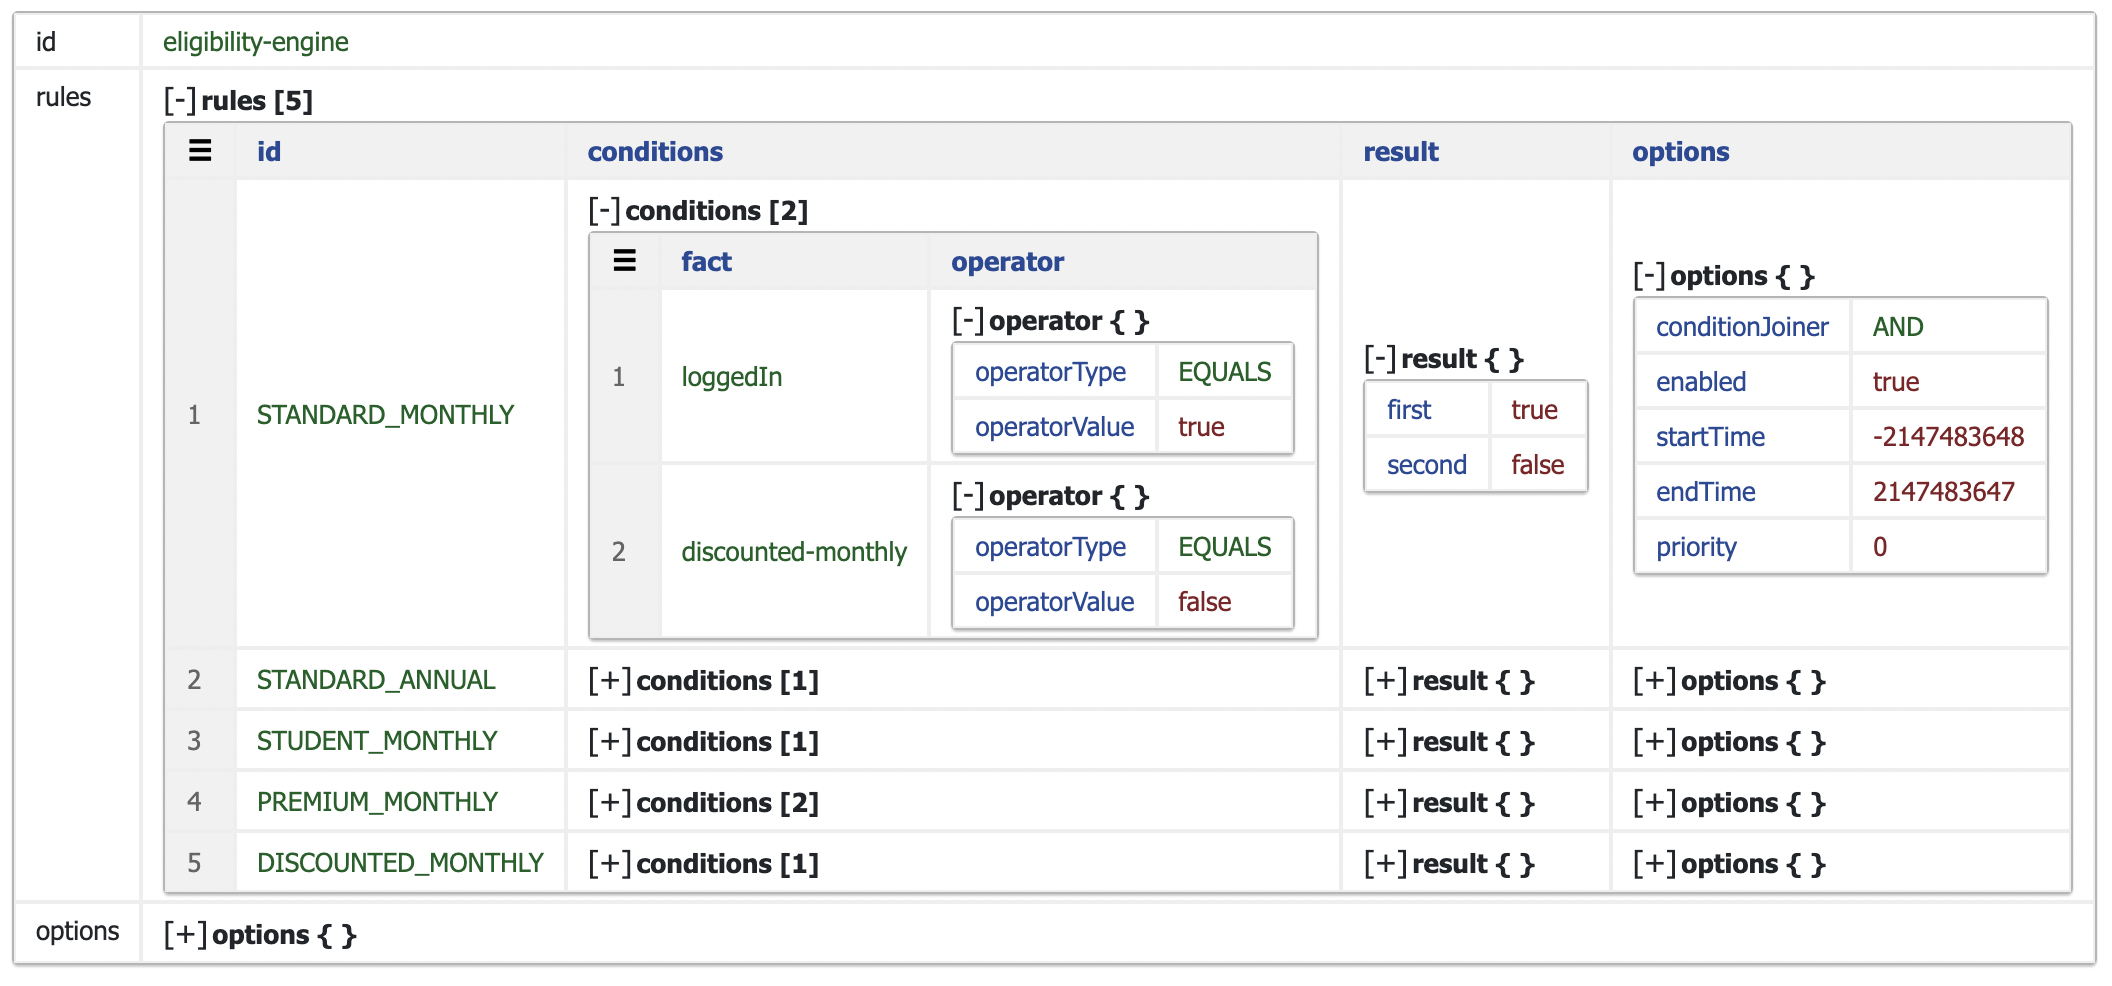
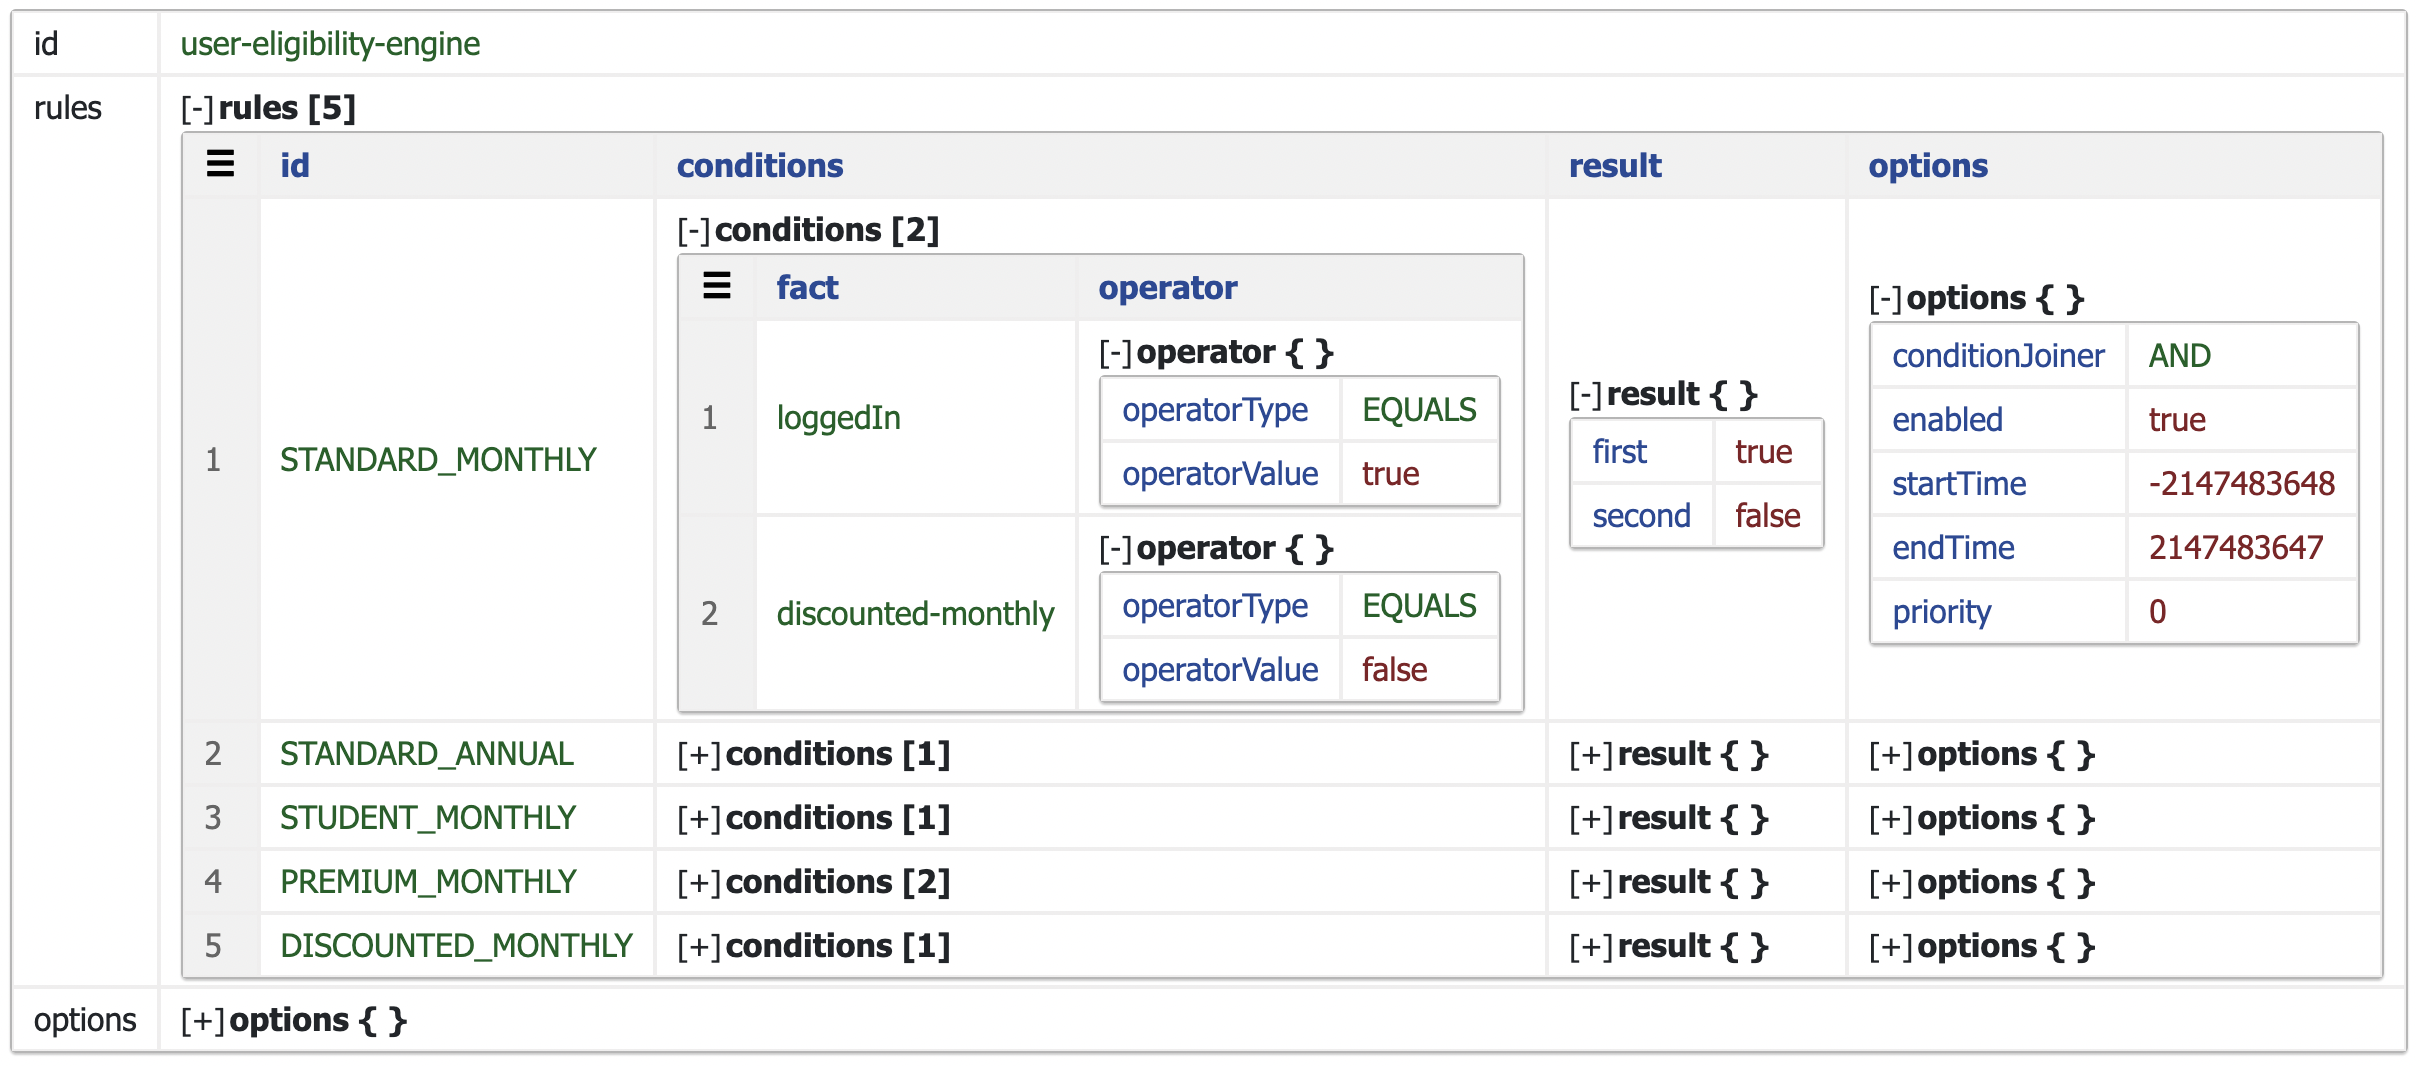
chore: small slide and code updates (#4)

diff --git a/code/app/src/main/kotlin/com/user/subscription/service/handler/SubscriptionEligibility.kt b/code/app/src/main/kotlin/com/user/subscription/service/handler/SubscriptionEligibility.kt
@@ -13,11 +13,10 @@ import java.time.Instant
 
 private val logger = KotlinLogging.logger("SubscriptionEligibility")
 
-private const val PREMIUM_PLAN_ROLLOUT_TIME = 1667610000
-
 class SubscriptionEligibility {
     companion object {
         val v1 = Handler<RoutingContext> { req ->
+            logger.info { "incoming request to v1 API" }
             val userRequestBody = parseBody(req)
 
             if (userRequestBody == null) {
@@ -37,11 +36,14 @@ class SubscriptionEligibility {
                 plans.add(SubscriptionPlan.STUDENT_MONTHLY)
             }
 
-            if (userRequestBody.subscribedForMonths > 12 && Instant.now().epochSecond > PREMIUM_PLAN_ROLLOUT_TIME) {
+            if (
+                userRequestBody.subscribedForMonths > UserEligibilityConstants.PREMIUM_PLAN_MINIMUM_MONTHS &&
+                Instant.now().epochSecond > UserEligibilityConstants.PREMIUM_PLAN_ROLLOUT_TIME
+            ) {
                 plans.add(SubscriptionPlan.PREMIUM_MONTHLY)
             }
 
-            if (hashSetOf("promo.code.1").contains(userRequestBody.promotionCode)) {
+            if (UserEligibilityConstants.ELIGIBLE_PROMO_CODES.contains(userRequestBody.promotionCode)) {
                 plans.add(SubscriptionPlan.DISCOUNTED_MONTHLY)
                 plans.remove(SubscriptionPlan.STANDARD_MONTHLY)
             }
@@ -51,6 +53,7 @@ class SubscriptionEligibility {
         }
 
         val v2 = Handler<RoutingContext> { req ->
+            logger.info { "incoming request to v2 API" }
             val userRequestBody = parseBody(req)
 
             if (userRequestBody == null) {
@@ -59,44 +62,16 @@ class SubscriptionEligibility {
                 return@Handler
             }
 
-            val engine = Engine(
-                "eligibility-engine", arrayListOf(
-                    Rule(
-                        SubscriptionPlan.STANDARD_MONTHLY.name,
-                        arrayListOf(
-                            Condition("loggedIn", Operator(OperatorType.EQUALS, true)),
-                            Condition("discounted-monthly", Operator(OperatorType.EQUALS, false))
-                        ),
-                    ), Rule(
-                        SubscriptionPlan.STANDARD_ANNUAL.name,
-                        arrayListOf(
-                            Condition("loggedIn", Operator(OperatorType.EQUALS, true))
-                        ),
-                    ), Rule(
-                        SubscriptionPlan.STUDENT_MONTHLY.name,
-                        arrayListOf(
-                            Condition("email", Operator(OperatorType.ENDS_WITH, ".edu"))
-                        ),
-                    ), Rule(
-                        SubscriptionPlan.PREMIUM_MONTHLY.name,
-                        arrayListOf(
-                            Condition("subscribedForMonths", Operator(OperatorType.GREATER_THAN, 12)),
-                            Condition("currentTime", Operator(OperatorType.GREATER_THAN, PREMIUM_PLAN_ROLLOUT_TIME))
-                        ),
-                    ), Rule(
-                        SubscriptionPlan.DISCOUNTED_MONTHLY.name,
-                        arrayListOf(
-                            Condition("promotionCode", Operator(OperatorType.CONTAINED_IN, hashSetOf("promo.code.1")))
-                        ),
-                    )
-                ), EngineOptions(
-                    sortRulesByPriority = true, storeRuleEvaluationResults = true
-                )
-            )
-
             logger.info { "user_data - $userRequestBody" }
-            val plans = engine.evaluate(userRequestBody.toHashMap()).getPlansList()
 
+            val engine = UserEligibilityEngine.getEngine()
+            val facts = userRequestBody.toHashMap()
+            facts["currentTime"] = Instant.now().epochSecond
+
+            val evaluationResult = engine.evaluate(facts)
+            logger.info { "evaluationResult - $evaluationResult" }
+
+            val plans = evaluationResult.getPlansList()
             logger.info { "plans - $plans" }
             req.response().endWithJson(plans)
         }

diff --git a/code/app/src/main/kotlin/com/user/subscription/service/handler/UserEligibilityEngine.kt b/code/app/src/main/kotlin/com/user/subscription/service/handler/UserEligibilityEngine.kt
@@ -1,0 +1,53 @@
+package com.user.subscription.service.handler
+
+import com.user.subscription.service.model.SubscriptionPlan
+import com.warnermedia.rulesengine.*
+
+
+object UserEligibilityEngine {
+    fun getEngine(): Engine {
+        return Engine(
+            "user-eligibility-engine", arrayListOf(
+                Rule(
+                    SubscriptionPlan.STANDARD_MONTHLY.name,
+                    arrayListOf(
+                        Condition("loggedIn", Operator(OperatorType.EQUALS, true)),
+                        Condition("DISCOUNTED_MONTHLY", Operator(OperatorType.EQUALS, false))
+                    ),
+                ), Rule(
+                    SubscriptionPlan.STANDARD_ANNUAL.name,
+                    arrayListOf(
+                        Condition("loggedIn", Operator(OperatorType.EQUALS, true))
+                    ),
+                ), Rule(
+                    SubscriptionPlan.STUDENT_MONTHLY.name,
+                    arrayListOf(
+                        Condition("email", Operator(OperatorType.ENDS_WITH, ".edu"))
+                    ),
+                ), Rule(
+                    SubscriptionPlan.PREMIUM_MONTHLY.name,
+                    arrayListOf(
+                        Condition(
+                            "subscribedForMonths",
+                            Operator(OperatorType.GREATER_THAN, UserEligibilityConstants.PREMIUM_PLAN_MINIMUM_MONTHS)
+                        ), Condition(
+                            "currentTime",
+                            Operator(OperatorType.GREATER_THAN, UserEligibilityConstants.PREMIUM_PLAN_ROLLOUT_TIME)
+                        )
+                    ),
+                ), Rule(
+                    SubscriptionPlan.DISCOUNTED_MONTHLY.name, arrayListOf(
+                        Condition(
+                            "promotionCode",
+                            Operator(OperatorType.CONTAINED_IN, UserEligibilityConstants.ELIGIBLE_PROMO_CODES)
+                        )
+                    ), options = RuleOptions(priority = 1)
+                )
+            ), EngineOptions(
+                sortRulesByPriority = true,
+                storeRuleEvaluationResults = true,
+                undefinedFactEvaluationType = UndefinedFactEvaluation.EVALUATE_TO_FALSE
+            )
+        )
+    }
+}

diff --git a/code/app/src/main/kotlin/com/user/subscription/service/model/UserSubscriptionRequest.kt b/code/app/src/main/kotlin/com/user/subscription/service/model/UserSubscriptionRequest.kt
@@ -5,8 +5,6 @@ import kotlin.reflect.full.memberProperties
 
 data class UserSubscriptionRequest(
     @JsonProperty("email") val email: String,
-    @JsonProperty("state") val state: String,
-    @JsonProperty("country") val country: String,
     @JsonProperty("subscribed_for_months") val subscribedForMonths: Int,
     @JsonProperty("logged_in") val loggedIn: Boolean,
     @JsonProperty("promotion_code") val promotionCode: String?

diff --git a/code/app/src/main/kotlin/com/user/subscription/service/handler/UserEligibilityConstants.kt b/code/app/src/main/kotlin/com/user/subscription/service/handler/UserEligibilityConstants.kt
@@ -1,0 +1,10 @@
+package com.user.subscription.service.handler
+
+object UserEligibilityConstants {
+    val ELIGIBLE_PROMO_CODES = hashSetOf("promo.code.1", "promo.code.2")
+
+    const val PREMIUM_PLAN_MINIMUM_MONTHS = 12
+
+    // GMT: Tuesday, November 1, 2022 3:05:05 PM
+    const val PREMIUM_PLAN_ROLLOUT_TIME = 1667315105L
+}

diff --git a/slides/slides.md b/slides/slides.md
@@ -1,7 +1,29 @@
 ---
+layout: two-cols
+---
+
+#
+
+<br />
+<br />
+<br />
+<br />
+<br />
+<br />
+<br />
+<br />
+<br />
+<br />
+
+[bit.ly/wbd-ato22](https://bit.ly/wbd-ato22)
+
+::right::
+
+<img src="/images/bitly.png" width="500" style="padding: 5rem 2rem 0 5rem;"/>
+
+---
 layout: cover
 background: "/images/fotografiska.jpeg"
-download: true
 ---
 
 # The Power of a Rules Engine
@@ -22,9 +44,9 @@ layout: two-cols
 - Working on anything/everything commerce
 - Creator and maintainer of
   - [WireMock-Captain](https://github.com/HBOCodeLabs/wiremock-captain)
-  - [@warnermedia/Rules-Engine](https://github.com/WarnerMedia/Rules-Engine)
+  - [@WarnerMedia/Rules-Engine](https://github.com/WarnerMedia/Rules-Engine)
 - Likes
-  - reading
+  - watches
   - cooking
   - discovering international music and series
 - GitHub: [satvik-s](https://github.com/satvik-s)
@@ -86,11 +108,11 @@ layout: two-cols
 
 # Use cases
 
-```kotlin{1|2-5|22|7-9|10|14|15-18|19-21|10-15|all}
+```kotlin{1|2|22|7-9|3|10|14|4|15-18|5|19-21|10-15|all}
 fun getUserPlanType(
     isLoggedIn: Boolean,
     isStudent: Boolean,
-    isEligibleForPromotion: Boolean,
+    isEligibleForPremiumPlan: Boolean,
     isEligibleForNewYearsPromotion: Boolean
 ): Array<String> {
     if (isLoggedIn) {
@@ -102,8 +124,8 @@ fun getUserPlanType(
         }
         return arrayOf("monthly_plan", "annual_plan", "student_plan")
     }
-    if (isLoggedIn && isEligibleForPromotion) {
-        return arrayOf("monthly_plan", "annual_plan", "promotional_plan")
+    if (isLoggedIn && isEligibleForPremiumPlan) {
+        return arrayOf("monthly_plan", "annual_plan", "premium_plan")
     }
     if (isLoggedIn && isEligibleForNewYearsPromotion) {
         return arrayOf("monthly_plan", "annual_plan", "new_years_promotional_plan")
@@ -142,7 +164,7 @@ user_logged_in == true && user_is_student == true
 
 <v-click>
 
-Engine - A collection of rules leading to an overall result. e.g.
+Engine - A collection of rules leading to an overall evaluation result. e.g.
 
 ```kotlin
 user_logged_in == true && user_is_student == true
@@ -182,6 +204,8 @@ GitHub (Code + Slides)
 
 Fixed hierarchy
 
+<v-click>
+
 What it supports:
 
 ```mermaid
@@ -194,6 +218,8 @@ flowchart TD
     R2 --> C4[user_has_no_existing_plan]
     R2 --> C5[year_is_2022]
 ```
+
+</v-click>
 
 <img src="/images/wbd.png" width="100" style="position: absolute; right: 0px; bottom: 0px;"/>
 
@@ -231,11 +257,13 @@ flowchart TD
 
 JSON persistence
 
+<v-click>
+
 An engine instance in code:
 
-```kotlin
+```kotlin{3-12|all}
 val engine = Engine(
-    "eligibility-engine",
+    "user-eligibility-engine",
     arrayListOf(
         Rule(
             SubscriptionPlan.STANDARD_MONTHLY.name,
@@ -253,6 +281,8 @@ val engine = Engine(
 )
 ```
 
+</v-click>
+
 <img src="/images/wbd.png" width="100" style="position: absolute; right: 0px; bottom: 0px;"/>
 
 ---
@@ -263,9 +293,9 @@ JSON persistence
 
 The engine instance as JSON:
 
-```json
+```json{3-13|all}
 {
-  "id": "eligibility-engine",
+  "id": "user-eligibility-engine",
   "rules": [
     {
       "id": "STANDARD_MONTHLY",
@@ -317,7 +347,7 @@ Leveraging remote rules engine instances
 
 Leveraging remote rules engine instances
 
-```kotlin{17-20|all}
+```kotlin{17-20|8-15|all}
 class CachedEngineInstance(val bucketName: String, val keyName: String, val timeToLive: Int) {
     private val objectMapper = ObjectMapper()
     private val request = GetObjectRequest { key = keyName; bucket = bucketName }
@@ -349,12 +379,12 @@ class CachedEngineInstance(val bucketName: String, val keyName: String, val time
 
 Leveraging remote rules engine instances
 
-```kotlin
+```kotlin{7-8|all}
 suspend fun evaluateFacts(facts: HashMap<String, Any?>): EvaluationResult {
     val cachedEngineInstance = CachedEngineInstance(
-        "rules-engine-bucket",
-        "engine.json",
-        60 * 60
+        "rules-engine-bucket", // name of the S3 bucket
+        "engine.json", // name of the file in S3 bucket
+        60 * 60 // refresh and get latest persisted engine every hour
     )
     val engine = cachedEngineInstance.getEngineInstance()
     return engine.evaluate(facts)
@@ -363,15 +393,19 @@ suspend fun evaluateFacts(facts: HashMap<String, Any?>): EvaluationResult {
 
 <img src="/images/wbd.png" width="100" style="position: absolute; right: 0px; bottom: 0px;"/>
 
-<!-- ---
+---
 
 # More advanced examples
 
-Creating server-driven workflows
+Some other (possible) use cases
 
-TODO: elaborate
+- Server driven workflows/UI
+- CI/CD pipelines
+- Feature flags
+- Request proxies
+- _And a lot more_
 
-<img src="/images/wbd.png" width="100" style="position: absolute; right: 0px; bottom: 0px;"/> -->
+<img src="/images/wbd.png" width="100" style="position: absolute; right: 0px; bottom: 0px;"/>
 
 ---
 
@@ -383,7 +417,7 @@ FAQs
 
   - Not as a starting point (_mostly_)
   - Start with something simple (if-then-else)
-  - Be cognizant of the added complexity with each change
+  - Be mindful of the added complexity with each change
 
 - Is this specific to Kotlin/TypeScript?
 
@@ -400,6 +434,20 @@ FAQs
 layout: center
 ---
 
-Thank you!
+__Thank you!__
+
+<br />
+<br />
+
+For any feedback about the session, please use the event app.
+
+<br />
+<br />
+<br />
+
+For any project related questions:
+- Approach me!
+- Use GitHub [Issues](https://github.com/WarnerMedia/Rules-Engine/pulls)
+and [Discussions](https://github.com/WarnerMedia/Rules-Engine/discussions)
 
 <img src="/images/wbd.png" width="100" style="position: absolute; right: 0px; bottom: 0px;"/>

diff --git a/README.md b/README.md
@@ -6,4 +6,9 @@ The code for the presentation walkthrough lives inside `code/`
 
 ## Slides
 
-The slide decl for the presentation lives under `slides/`
+The slide deck for the presentation lives inside `slides/`
+
+## @warnermedia/rules-engine
+
+To checkout the package we will cover during the presentation, refer to
+[github.com/WarnerMedia/Rules-Engine](https://github.com/WarnerMedia/Rules-Engine)
